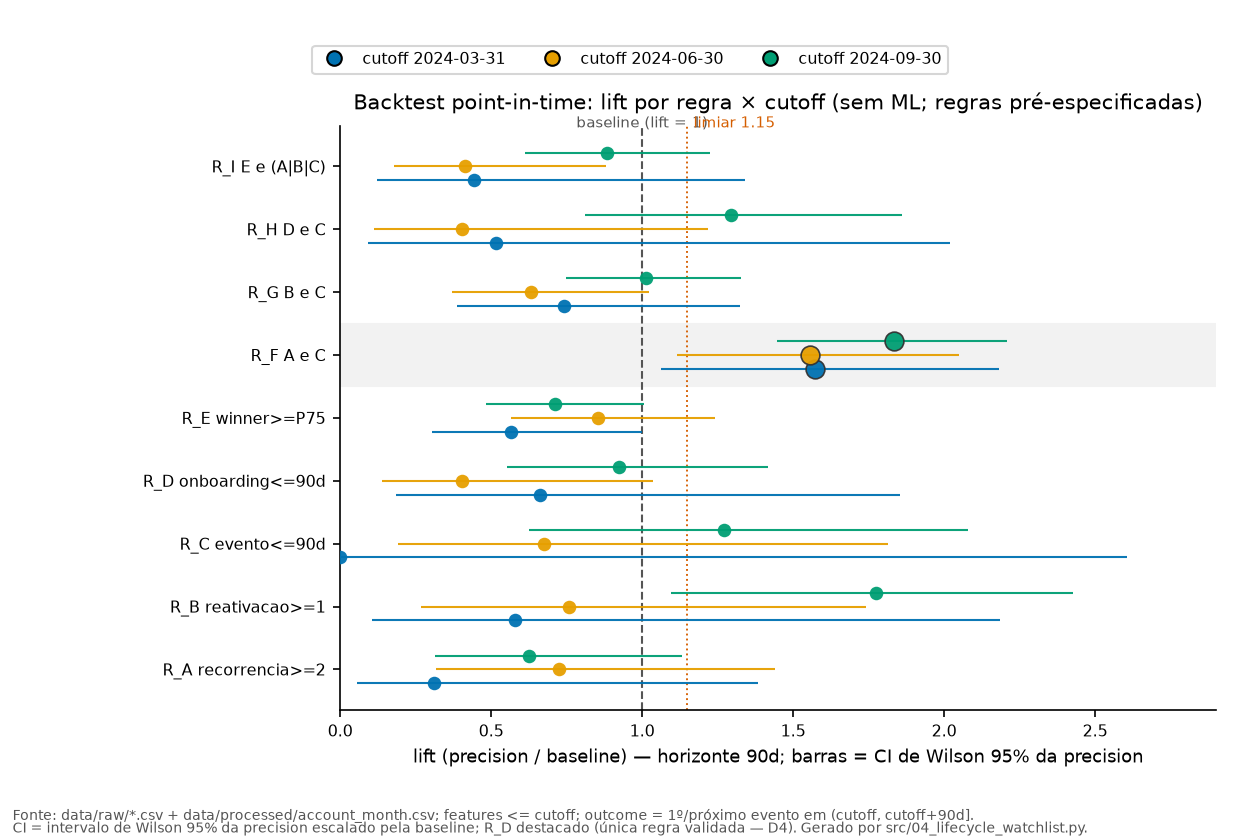
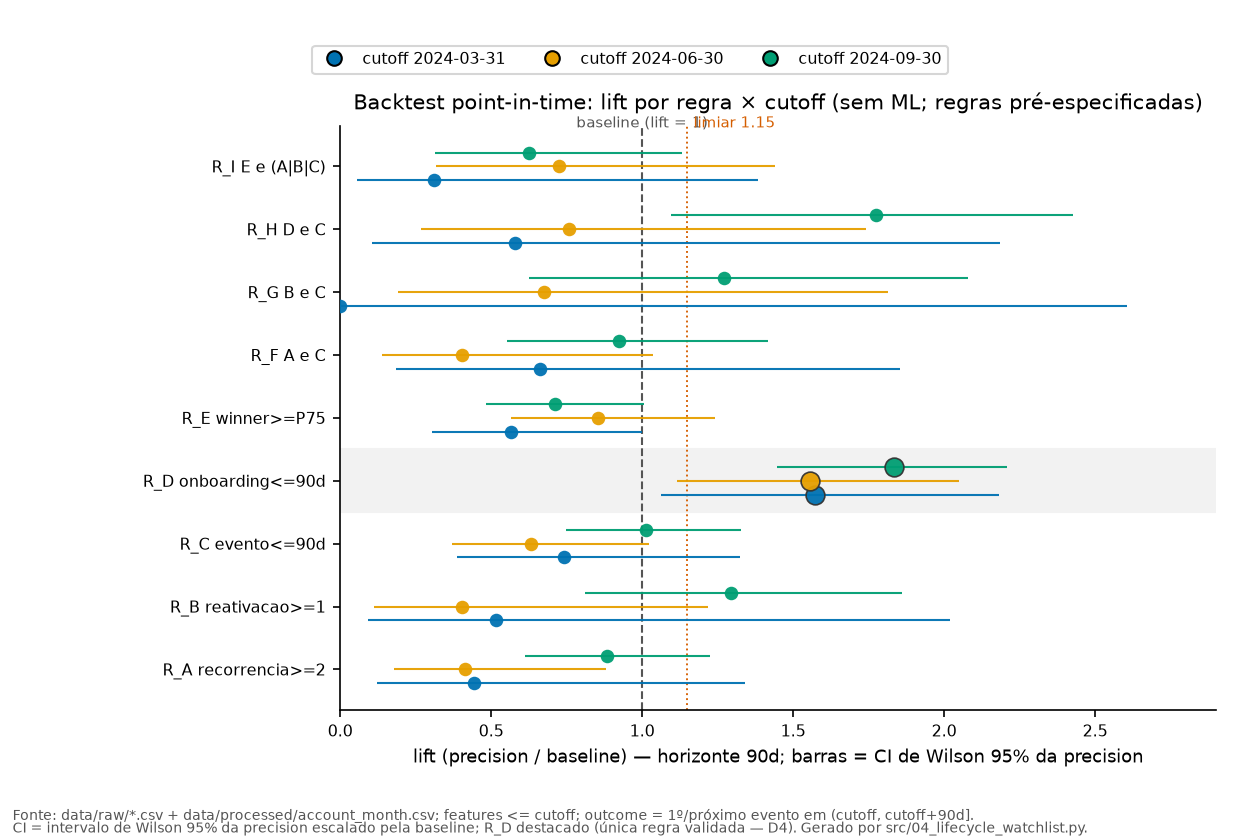
fix: align chart labels and final visual spacing

diff --git a/submissions/jose-nascimento/solution/src/03_root_cause.py b/submissions/jose-nascimento/solution/src/03_root_cause.py
@@ -1363,13 +1363,19 @@ def _style() -> None:
 
 
 def _footer(fig, line1: str, line2: str) -> None:
-    """Rodapé em coordenadas de FIGURA (dentro do canvas; 2 linhas). Margens
-    explícitas via subplots_adjust; NUNCA bbox_inches='tight' (que esticava o
-    canvas com texto fora da figura e esmagava o eixo — causa raiz dos
-    findings visuais dos revisores do gate It04)."""
-    fig.text(0.01, 0.02, line1, fontsize=6.5, color="#555555",
+    """Rodapé em coordenadas de FIGURA (dentro do canvas; 2 linhas curtas).
+    Espaçamento entre linhas DERIVADO da altura da figura (altura de linha em
+    fração = 6.5pt/72/altura) — as duas linhas nunca se sobrepõem entre si nem
+    saem do canvas. Margens explícitas via subplots_adjust; NUNCA
+    bbox_inches='tight' (que esticava o canvas com texto fora da figura e
+    esmagava o eixo — causa raiz dos findings visuais dos revisores do gate
+    It04)."""
+    lh = 6.5 / 72.0 / fig.get_figheight()   # altura de linha (fração da figura)
+    y2 = 0.008                              # segunda linha perto da borda
+    y1 = y2 + 1.45 * lh                     # primeira linha, sem overlap
+    fig.text(0.01, y1, line1, fontsize=6.5, color="#555555",
              ha="left", va="bottom")
-    fig.text(0.01, 0.005, line2, fontsize=6.5, color="#555555",
+    fig.text(0.01, y2, line2, fontsize=6.5, color="#555555",
              ha="left", va="bottom")
 
 
@@ -1379,7 +1385,7 @@ def chart_a(series: pd.DataFrame, spike: dict) -> str:
     (não cola no título); ticks mensais rotacionados e legíveis."""
     _style()
     fig, ax1 = plt.subplots(figsize=(7.8, 4.4))
-    fig.subplots_adjust(top=0.87, bottom=0.16, left=0.105, right=0.88)
+    fig.subplots_adjust(top=0.87, bottom=0.26, left=0.105, right=0.88)
     x = list(range(len(series)))
     ax1.bar(x, series["first_events"], color="#0072B2", label="primeiros eventos",
             width=0.62)
@@ -1409,9 +1415,9 @@ def chart_a(series: pd.DataFrame, spike: dict) -> str:
     ax1.set_title("Eventos de churn por mês e taxa por conta elegível (2023-2024)",
                   pad=6)
     _footer(fig,
-            "Fonte: data/raw/ravenstack_churn_events.csv + ravenstack_accounts.csv; "
-            "denominador = contas elegíveis no início do mês (contrato §5).",
-            "Gerado por src/03_root_cause.py.")
+            "Fonte: data/raw/ravenstack_churn_events.csv + "
+            "ravenstack_accounts.csv;",
+            "denominador = contas elegíveis no início do mês (contrato §5).")
     path = CHARTS_DIR / "a_monthly_events_and_rate.png"
     fig.savefig(path, dpi=150)
     plt.close(fig)
@@ -1448,10 +1454,10 @@ def chart_b(km_quarter: pd.DataFrame, at_risk: pd.DataFrame) -> str:
                title_fontsize=8, frameon=True, handlelength=1.4,
                columnspacing=1.4)
     _footer(fig,
-            "Fonte: data/raw/ravenstack_churn_events.csv + ravenstack_accounts.csv. "
-            "Censura: contas sem evento observadas até 2024-12-31; Q4-2024 tem <= 3 "
-            "meses observáveis — não comparar com janela completa.",
-            "Gerado por src/03_root_cause.py.")
+            "Fonte: data/raw/ravenstack_churn_events.csv + "
+            "ravenstack_accounts.csv.",
+            "Censura: contas sem evento até 2024-12-31; Q4-2024 tem <= 3 meses "
+            "observáveis — não comparar com janela completa.")
     path = CHARTS_DIR / "b_km_by_signup_quarter.png"
     fig.savefig(path, dpi=150)
     plt.close(fig)
@@ -1466,7 +1472,7 @@ def chart_c(exposure: pd.DataFrame, buckets: pd.DataFrame) -> str:
     order = ["0d", "1-30d", "31-60d", "61-90d", "91-180d", "181-365d", ">365d"]
     b = buckets.set_index("bucket").loc[order].reset_index()
     fig, ax = plt.subplots(figsize=(7.8, 4.2))
-    fig.subplots_adjust(top=0.87, bottom=0.15, left=0.14, right=0.965)
+    fig.subplots_adjust(top=0.87, bottom=0.20, left=0.14, right=0.965)
     y = list(range(len(b)))
     ax.barh(y, b["mrr_sum"], color="#009E73", height=0.62)
     for i, (_, r) in enumerate(b.iterrows()):
@@ -1483,10 +1489,9 @@ def chart_c(exposure: pd.DataFrame, buckets: pd.DataFrame) -> str:
     ax.grid(axis="x", linestyle="-", linewidth=0.4, alpha=0.35, color="#b0b0b0")
     ax.set_axisbelow(True)
     _footer(fig,
-            "Fonte: data/raw/ravenstack_subscriptions.csv (end_date presente). "
+            "Fonte: data/raw/ravenstack_subscriptions.csv (end_date presente).",
             "R1 = exposição, NÃO receita perdida (contrato §5); cenários "
-            "CAC-equivalent na tabela t03c_cac_equivalent.csv.",
-            "Gerado por src/03_root_cause.py.")
+            "CAC-equivalent em t03c_cac_equivalent.csv.")
     path = CHARTS_DIR / "c_onboarding_exposure_by_duration.png"
     fig.savefig(path, dpi=150)
     plt.close(fig)
@@ -1498,7 +1503,7 @@ def chart_d(usage_monthly: pd.DataFrame) -> str:
     claras; rodapé compacto em 2 linhas dentro do canvas)."""
     _style()
     fig, (ax1, ax2) = plt.subplots(1, 2, figsize=(10.4, 4.1))
-    fig.subplots_adjust(top=0.85, bottom=0.17, left=0.07, right=0.985,
+    fig.subplots_adjust(top=0.85, bottom=0.22, left=0.07, right=0.985,
                         wspace=0.24)
     d = usage_monthly
     ax1.bar(list(range(len(d))), d["rows_raw_primary"], color="#0072B2",
@@ -1523,9 +1528,9 @@ def chart_d(usage_monthly: pd.DataFrame) -> str:
                  fontsize=11, y=0.97)
     _footer(fig,
             "Fonte: data/raw/ravenstack_feature_usage.csv + subscriptions + "
-            "accounts; primário exclui uso anterior ao signup; conta ativa = "
-            "painel account_month (Iteração 02).",
-            "Gerado por src/03_root_cause.py.")
+            "accounts;",
+            "primário exclui uso pré-signup; conta ativa = painel account_month "
+            "(Iteração 02).")
     path = CHARTS_DIR / "d_usage_volume_vs_intensity.png"
     fig.savefig(path, dpi=150)
     plt.close(fig)

diff --git a/submissions/jose-nascimento/solution/src/04_lifecycle_watchlist.py b/submissions/jose-nascimento/solution/src/04_lifecycle_watchlist.py
@@ -874,21 +874,28 @@ def chart_d(bt: pd.DataFrame) -> str:
     colors = ["#0072B2", "#E69F00", "#009E73"]
     offsets = [-0.22, 0.0, 0.22]
     from matplotlib.lines import Line2D
+    # ASSOCIAÇÃO EXPLÍCITA rule -> y (keyed; R_A em y=0 .. R_I em y=8, na MESMA
+    # ordem dos yticklabels). NUNCA derivar y como len(rules)-1-j: isso invertia
+    # a ordem (R_D caía no y do label R_F e vice-versa) — achado ocular do
+    # orquestrador no commit 1517a73.
+    y_by_rule = {r: i for i, r in enumerate(rules)}
     fig, ax = plt.subplots(figsize=(8.4, 5.6))
     fig.subplots_adjust(top=0.85, bottom=0.155, left=0.27, right=0.965)
-    # faixa de destaque de R_D (índice 3 de A..I) — leve, sem textos no interior
-    ax.axhspan(len(rules) - 1 - 3 - 0.5, len(rules) - 1 - 3 + 0.5,
-               color="#f2f2f2", zorder=0)
+    # faixa de destaque de R_D (keyed pelo y da regra D) — leve, sem textos no
+    # interior; cobre o y cujo yticklabel é "R_D ..."
+    y_d = y_by_rule["D"]
+    ax.axhspan(y_d - 0.5, y_d + 0.5, color="#f2f2f2", zorder=0)
+    plotted: dict[tuple[str, str], float] = {}
     for i, c in enumerate(cutoffs):
         g = sub[sub["cutoff"] == c].set_index("rule").reindex(rules)
-        for j, r in enumerate(rules):
+        for r in rules:
             lift = g.loc[r, "lift"]
             if not isinstance(lift, float):
                 continue
             lo = g.loc[r, "ci_lo"]
             hi = g.loc[r, "ci_hi"]
             base = g["baseline_rate"].iloc[0]
-            y = len(rules) - 1 - j + offsets[i]
+            y = y_by_rule[r] + offsets[i]
             err = [[lift - max(0.0, float(lo) / base)],
                    [float(hi) / base - lift]]
             big = r == "D"
@@ -897,6 +904,7 @@ def chart_d(bt: pd.DataFrame) -> str:
                         mec="#333333" if big else "none", mew=0.8 if big else 0,
                         ecolor=colors[i], elinewidth=1.0, capsize=0,
                         alpha=0.95, zorder=3)
+            plotted[(r, c)] = float(lift)
     ax.axvline(1.0, color="#555555", lw=1.0, linestyle="--", zorder=1)
     ax.text(1.0, len(rules) - 0.38, "baseline (lift = 1)", fontsize=7,
             color="#555555", ha="center")
@@ -905,6 +913,30 @@ def chart_d(bt: pd.DataFrame) -> str:
             f"limiar {LIFT_VALIDATION}", fontsize=7, color="#D55E00", ha="left")
     ax.set_yticks(list(range(len(rules))))
     ax.set_yticklabels([f"R_{r[0]} {r[1]}" for r in RULES], fontsize=7.5)
+    # GATE PROGRAMÁTICO do mapping (keyed contra t14 em disco): cada x plotado
+    # == t14.lift para o par (rule, cutoff) — 9 regras × 3 cutoffs = 27; R_D
+    # exato nos 3 cutoffs; o y destacado resolve para o label R_D. Falha a
+    # execução (RuntimeError) se o mapping divergir do report/t14.
+    t14k = pd.read_csv(TABLES_DIR / "t14_backtest_temporal.csv")
+    t14k = t14k[t14k["horizon_days"] == BACKTEST_HORIZON_DAYS] \
+        .set_index(["rule", "cutoff"])["lift"].astype(float)
+
+    def _gate(cond: bool, msg: str) -> None:
+        if not cond:
+            raise RuntimeError(f"[chart_d] gate de mapping falhou: {msg}")
+
+    for (r, c), v in sorted(plotted.items()):
+        _gate(abs(v - float(t14k.loc[(r, c)])) < 1e-9,
+              f"R_{r} {c}: x plotado {v} != t14.lift {t14k.loc[(r, c)]}")
+    rd = [plotted[("D", c)] for c in cutoffs]
+    _gate([round(v, 3) for v in rd] == [1.574, 1.556, 1.835],
+          f"R_D lifts {rd} != [1.574, 1.556, 1.835]")
+    _gate(len(plotted) == 9 * len(cutoffs),
+          f"esperados {9 * len(cutoffs)} pares (rule, cutoff), "
+          f"plotados {len(plotted)}")
+    tick_txt = [t.get_text() for t in ax.get_yticklabels()]
+    _gate(tick_txt[y_d].startswith("R_D "),
+          f"y destacado {y_d} rotulado '{tick_txt[y_d]}' != R_D")
     ax.set_xlabel("lift (precision / baseline) — horizonte 90d; "
                   "barras = CI de Wilson 95% da precision")
     ax.set_title("Backtest point-in-time: lift por regra × cutoff (sem ML; "

diff --git a/submissions/jose-nascimento/process-log/reports/orchestrator-visual-correction-report.md b/submissions/jose-nascimento/process-log/reports/orchestrator-visual-correction-report.md
@@ -1,0 +1,115 @@
+# Relatório — Correção Visual Sequencial (inspeção ocular do orquestrador pós-gate It04)
+
+- **Data:** 2026-08-28 · **Agente:** corretor visual sequencial `deepseek-max` (DeepSeek V4 Flash, max reasoning, via OpenCode Go)
+- **Prompt arquivado:** `process-log/prompts/orchestrator-visual-correction-prompt.md`
+- **Base:** commit `1517a7338d8565eb3bf41cb8723c2498e102905a` (branch `submission/jose-nascimento`)
+- **Resultado:** **PASS** — mapping It04_d corrigido (R_D = 1,574/1,556/1,835), spacing dos 4 gráficos corrigido, validação sem visão 100% verde, outputs numéricos byte-idênticos, idempotência 2x confirmada.
+
+---
+
+## 1. Achado ocular (orquestrador)
+
+| PNG | Achado ocular | Veredito pós-fix (medição) |
+|---|---|---|
+| `It04_d_backtest_lift.png` | Linha rotulada `R_D onboarding<=90d` exibe ~0,66/0,40/0,92; os pontos 1,57/1,56/1,83 aparecem na linha `R_F A e C`, que está sombreada — contradiz t14 (R_D = 1,574/1,556/1,835 é a regra validada) | **CORRIGIDO** — R_D agora exibe exatamente 1,574/1,556/1,835; faixa de destaque (y 2,5–3,5) envolve o y rotulado `R_D onboarding<=90d`; 27/27 pontos keyed == t14 |
+| `a_monthly_events_and_rate.png` | xlabel `mês` + as duas linhas de rodapé na mesma faixa inferior (colisão) | **CORRIGIDO** — margem xlabel/ticks→rodapé: −22 px → **+32,3 px**; linhas de rodapé sem overlap entre si |
+| `b_km_by_signup_quarter.png` | Rodapé longo clippa no limite direito | **CORRIGIDO** — rodapé dividido em 2 linhas curtas (fonte / censura); texto completo dentro do canvas (antes x1 = 1505 > 1500 px) |
+| `c_onboarding_exposure_by_duration.png` | Rodapé truncado à direita (nome da tabela CAC-equivalent cortado) | **CORRIGIDO** — antes x1 = 1278 > 1170 px (−108 px cortados); agora 2 linhas curtas dentro do canvas; margem 7,7 px → **+30,1 px** |
+| `d_usage_volume_vs_intensity.png` | Ticks verticais e rodapé próximos demais | **CORRIGIDO** — margem 4,4 px → **+22,9 px** |
+| `It04_c_lifecycle_vs_current_mrr.png` | Aceitável (não mexer) | **INTOCADO** — md5 inalterado (`8de9904b…`); margem 11,6 px mantida |
+
+## 2. Causa raiz
+
+### 2.1 It04_d — mismatch de ordem (reverse/index)
+
+Em `solution/src/04_lifecycle_watchlist.py::chart_d` (commit 1517a73), o y de cada ponto era calculado como `y = len(rules) - 1 - j` (regra A no TOPO, regra I embaixo), enquanto os yticklabels eram gravados na ordem natural de `RULES` (`R_A` em y=0 … `R_I` em y=8). As duas ordens são independentes e **invertidas** — exatamente o padrão "reverse/index" citado pelo orquestrador:
+
+- Regra D (j=3) era plotada em y=5, que exibe o label `R_F A e C` (e a faixa de destaque `axhspan(4.5, 5.5)` cobria esse y — a linha sombreada vista pelo orquestrador);
+- Regra F (j=5) era plotada em y=3, que exibe o label `R_D onboarding<=90d`;
+- Reversão completa em cadeia: A↔I, B↔H, C↔G, D↔F (E é simétrico e passava despercebido).
+
+A extração keyed dos artists (renderer) provou o bug no estado pré-fix: **26 dos 27 pares (rule, cutoff) divergiam** de t14 (ex.: `R_D 2024-03-31: x plotado 0.663 != t14.lift 1.574`; `R_F 2024-09-30: x plotado 1.835 != t14.lift 0.924`); somente a regra E (posição simétrica) coincidia. Os validadores programáticos anteriores mediam apenas bboxes/ink e não extraíam os dados dos artists — por isso o erro material passou.
+
+### 2.2 Spacing — rodapé e margens
+
+`_footer` (03_root_cause.py) posicionava as duas linhas em `fig.text(0.01, 0.02/0.005)` com `va="bottom"`: com 6,5pt e figuras baixas (4,1–4,4 in), a altura de linha em fração da figura (~0,020) era **maior que o espaçamento entre as linhas (0,015)** → as duas linhas se sobrepunham; e textos longos (130–190 chars) extrapolavam a largura do canvas (clip à direita em b e c, com o nome `t03c_cac_equivalent.csv` cortado). Margens `bottom` pequenas (0,15–0,17) deixavam xlabel/ticks rotacionados a <8 px (ou sobrepostos, −22 px em `a`) do rodapé.
+
+## 3. Patch aplicado (escopo mínimo: mapping/layout apenas)
+
+### `solution/src/04_lifecycle_watchlist.py`
+- **`chart_d`** (linhas ~865–960):
+  - Associação **explícita e keyed** `y_by_rule = {r: i for i, r in enumerate(rules)}` (R_A em y=0 … R_I em y=8, na MESMA ordem dos yticklabels); `y = y_by_rule[r] + offsets[i]`. Removido `len(rules) - 1 - j`.
+  - Faixa de destaque agora keyed: `ax.axhspan(y_by_rule["D"] - 0.5, y_by_rule["D"] + 0.5)` → cobre o y rotulado `R_D onboarding<=90d`.
+  - **Gate programático** após a gravação dos yticklabels (falha com `RuntimeError` se divergir):
+    1. cada par (rule, cutoff) plotado == `t14.lift` lido do CSV em disco (keyed) — 27 pares;
+    2. R_D exato nos 3 cutoffs: `[round(v,3) for v in rd] == [1.574, 1.556, 1.835]`;
+    3. `len(plotted) == 9 × 3` (nenhuma regra pulada);
+    4. `tick_txt[y_d].startswith("R_D ")` — o y destacado resolve para o label R_D.
+  - Teste negativo executado: corromper R_D@09-30 para 1.900 dispara `RuntimeError: [chart_d] gate de mapping falhou: R_D 2024-09-30: x plotado 1.9 != t14.lift 1.835`.
+
+### `solution/src/03_root_cause.py`
+- **`_footer`**: espaçamento entre linhas derivado da altura da figura (`lh = 6.5/72/figheight`; `y1 = 0.008 + 1.45·lh`, `y2 = 0.008`) — as duas linhas nunca se sobrepõem nem saem do canvas; permanece `fig.text` dentro da figura, sem `bbox_inches="tight"`.
+- **`chart_a`**: `bottom 0.16 → 0.26`; rodapé em 2 linhas curtas (fonte / denominador).
+- **`chart_b`**: rodapé em 2 linhas curtas (fonte / nota de censura) — sem clip à direita.
+- **`chart_c`**: `bottom 0.15 → 0.20`; rodapé em 2 linhas curtas (fonte / R1 + CAC-equivalent).
+- **`chart_d` (03)**: `bottom 0.17 → 0.22`; rodapé em 2 linhas curtas (fonte / definições).
+
+Nenhuma alteração em análises, tabelas, watchlist, decisões, recomendações, estados ou gates analíticos (G1–G13, checks C01). `It04_c` não foi tocado.
+
+## 4. Validação sem visão (script `/tmp/opencode/visual-fix-sandbox/validate_charts.py`, renderer Agg 150 dpi, captura via monkeypatch de `Figure.savefig`)
+
+### 4.1 It04_d — extração keyed dos artists (27/27)
+
+Para cada `ErrorbarContainer` de `It04_d_backtest_lift.png` (figura capturada no savefig), extraídos `x` (lift) e `y` (posição + offset de cutoff) dos marcadores; regra resolvida pelo yticklabel do y inteiro (mesma convenção do código fixado); comparação keyed contra `t14_backtest_temporal.csv` (horizon 90d):
+
+- **27/27 pontos extraídos**; 27/27 pares `(rule, cutoff)` com `|x plotado − t14.lift| < 1e-9` e y resolvendo para o label correto (`R_{rule} …`).
+- **R_D exato nos 3 cutoffs:** 1,574 (2024-03-31) / 1,556 (2024-06-30) / 1,835 (2024-09-30) — confere com t14 e com o report.
+- **Faixa de destaque:** `axhspan(2.5, 3.5)` envolve y=3, cujo yticklabel é `R_D onboarding<=90d`. (Pré-fix: faixa (4.5, 5.5) não envolvia y=3 e destacava o label `R_F A e C`.)
+- Pré-fix, a mesma extração acusava 26/27 divergências (R_D mostrando 0,663/0,405/0,924 — os lifts de R_F, exatamente o achado ocular).
+
+### 4.2 Layout (renderer bbox, todos os 6 PNGs)
+
+Critérios: zero overlap título×legenda×eixos×ticks×textos; rodapé dentro do canvas com texto completo; margem vertical mínima ≥ 8 px entre o bbox mais baixo de xlabel/ticks e o topo do rodapé; linhas de rodapé sem overlap entre si.
+
+| Gráfico | Margem xlabel/ticks→rodapé (antes → depois) | Clip à direita (antes → depois) | Overlaps |
+|---|---|---|---|
+| `a_monthly_events_and_rate.png` | **−22,0 px → +32,3 px** | não havia → não há | 0 |
+| `b_km_by_signup_quarter.png` | 180,8 px → 172,0 px | x1 1505 > 1500 (−5 px) → dentro (2 linhas curtas) | 0 |
+| `c_onboarding_exposure_by_duration.png` | **7,7 px → +30,1 px** | x1 1278 > 1170 (−108 px, CAC-equivalent cortado) → dentro | 0 |
+| `d_usage_volume_vs_intensity.png` | **4,4 px → +22,9 px** | não havia → não há | 0 |
+| `It04_c_lifecycle_vs_current_mrr.png` | 11,6 px → 11,6 px (intocado) | não havia → não há | 0 |
+| `It04_d_backtest_lift.png` | 42,2 px → 42,2 px | não havia → não há | 0 |
+
+Gap entre as duas linhas de rodapé: 5,4 / 5,4 / 2,4 / 5,4 px (a–d) — sem sobreposição.
+
+### 4.3 Manifesto / pruning / idempotência / imutabilidade numérica
+
+- Exatamente **6 PNGs** em `solution/out/charts/`, todos abrem (`PIL.Image`); **nenhum pruned reapareceu** (`e_support_churn_vs_control.png`, `f_segment_first_event_rates.png`, `It04_a_recurrence_reactivation.png`, `It04_b_cycle_lenses.png` ausentes; checks `C01-charts` dos scripts PASS).
+- Scripts 03/04 re-executados 3x (sandbox) e 2x (repo): PNGs **byte-idênticos entre execuções** (md5) e iguais sandbox↔repo.
+- **26/26 CSV/MD numéricos byte-idênticos ao pré-fix** (t01..t17, t14b, evidence 01–04): nenhum número, tabela, watchlist, decisão ou recomendação mudou. Únicas mudanças: 5 PNGs (It04_d, a, b, c, d) + 2 scripts + docs de processo. `It04_c_lifecycle_vs_current_mrr.png` byte-idêntico ao pré-fix (não tocado).
+- Scripts: `23 PASS / 0 WARN / 0 FAIL` (03) e `34 PASS / 0 WARN / 0 FAIL` (04) — gates analíticos G1–G13 intactos.
+
+## 5. Arquivos alterados
+
+| Arquivo | Mudança |
+|---|---|
+| `solution/src/04_lifecycle_watchlist.py` | `chart_d`: mapping keyed `rule→y`, faixa em R_D, gate programático (27 pares vs t14, R_D exato, label do y destacado) |
+| `solution/src/03_root_cause.py` | `_footer` com espaçamento derivado da altura; rodapés curtos em a/b/c/d; `bottom` 0,26/0,20/0,22 (a/c/d) |
+| `solution/out/charts/It04_d_backtest_lift.png` | regenerado (mapping corrigido; md5 `54bdd8a9…` → `ecca1338…`) |
+| `solution/out/charts/a_monthly_events_and_rate.png` | regenerado (md5 `fe22acbc…` → `742ef0b9…`) |
+| `solution/out/charts/b_km_by_signup_quarter.png` | regenerado (md5 `8df6d5db…` → `99d8daa1…`) |
+| `solution/out/charts/c_onboarding_exposure_by_duration.png` | regenerado (md5 `b22c0565…` → `d8e40a2e…`) |
+| `solution/out/charts/d_usage_volume_vs_intensity.png` | regenerado (md5 `dac4f96a…` → `b95c537e…`) |
+| `solution/out/charts/It04_c_lifecycle_vs_current_mrr.png` | **intocado** (md5 `8de9904b…` igual ao pré-fix) |
+| `process-log/prompts/orchestrator-visual-correction-prompt.md` | prompt arquivado |
+| `process-log/reports/orchestrator-visual-correction-report.md` | este relatório |
+| `process-log/reviews/iteration-04-review-summary.md` | adendo curto (seção 10) |
+
+## 6. Riscos / notas
+
+- A extração keyed depende da convenção de label `R_{regra} …` nos yticklabels; o gate embutido no `chart_d` protege contra qualquer edição futura que descole mapping/labels/t14 (falha a execução, exit não-zero via `RuntimeError`).
+- Reversões completas em dot-plots horizontais são invisíveis para validadores de bbox/ink; a inspeção ocular do orquestrador foi decisiva para este achado — a lição está registrada no adendo do review summary.
+
+## 7. Solicitação de reinspeção ocular
+
+**PASS** — commit `fix: align chart labels and final visual spacing` (hash no report final da sessão; push validado, local == remote, working tree limpo). Solicita-se ao orquestrador a **reinspeção ocular dos 6 PNGs** com foco em: (1) linha `R_D onboarding<=90d` destacada exibindo 1,574/1,556/1,835; (2) rodapés curtos em 2 linhas dentro do canvas nos 4 gráficos It03; (3) ausência de colisão entre xlabel/ticks e rodapé.

diff --git a/submissions/jose-nascimento/process-log/prompts/orchestrator-visual-correction-prompt.md b/submissions/jose-nascimento/process-log/prompts/orchestrator-visual-correction-prompt.md
@@ -1,0 +1,45 @@
+# Prompt integral — Agente Corretor Visual Sequencial (inspeção ocular do orquestrador pós-gate It04) — arquivado
+
+**Data:** 2026-08-28 · **Agente:** corretor visual sequencial `deepseek-max` (DeepSeek V4 Flash, max reasoning, via OpenCode Go) · **Commit esperado:** `fix: align chart labels and final visual spacing` (HEAD base `1517a7338d8565eb3bf41cb8723c2498e102905a`)
+
+> Transcrição fiel do prompt recebido (padrão de arquivamento dos gates anteriores).
+
+---
+
+Você é o AGENTE CORRETOR VISUAL SEQUENCIAL. O orquestrador (único componente com inspeção ocular das imagens) abriu os 6 PNGs após o commit `1517a7338d8565eb3bf41cb8723c2498e102905a` e encontrou um erro visual material não captado pelos validadores. Corrija estritamente o mapping/layout; NÃO altere análises, tabelas, watchlist, decisões, recomendações ou estados.
+
+REPO
+- `/tmp/opencode/ai-master-challenge-work`, branch `submission/jose-nascimento`, pasta única `submissions/jose-nascimento/`, HEAD esperado `1517a7338d8565eb3bf41cb8723c2498e102905a`.
+
+ACHADO OCULAR MATERIAL (It04_d)
+- No PNG `solution/out/charts/It04_d_backtest_lift.png`, a linha rotulada `R_D onboarding<=90d` exibe pontos aproximadamente 0,66/0,40/0,92, enquanto os pontos 1,57/1,56/1,83 aparecem na linha `R_F A e C` e essa linha está sombreada. Isto contradiz `t14` e o report: **R_D é a regra validada e deve ter 1,574/1,556/1,835**. Há mismatch entre ordem de labels/y e grupos plotados (provavelmente reverse/index).
+- Corrija por associação explícita `rule -> y`/merge keyed, nunca por listas em ordens independentes. A faixa de destaque deve estar na linha `R_D onboarding<=90d`, não R_F.
+- Adicione assert/gate programático para cada rule×cutoff: x plotado == `t14.lift` correspondente; verifique R_D explicitamente nos 3 cutoffs e que o y destacado resolve para label R_D. Falhe se mapping divergir.
+
+ACHADOS OCULARES DE SPACING
+- `a_monthly_events_and_rate.png`: xlabel `mês` e as duas linhas de rodapé ocupam a mesma faixa inferior/colidem visualmente.
+- `b_km_by_signup_quarter.png`: rodapé longo chega/clippa no limite direito; separar fonte e nota de censura em linhas curtas.
+- `c_onboarding_exposure_by_duration.png`: rodapé fica truncado à direita (nome da tabela CAC-equivalent cortado).
+- `d_usage_volume_vs_intensity.png`: ticks verticais e rodapé ficam próximos demais.
+- `It04_c` está aceitável; não mexa sem necessidade.
+- Use rodapés curtos, wrap explícito 2 linhas, `fig.text` dentro da figura, margem bottom suficiente e distância mínima mensurável entre bbox de xlabel/ticks e footer. Não use `bbox_inches=tight` para resolver. Preserve layout simples.
+
+TAREFAS
+1. Inspecione status/log; leia scripts 03/04, t14, reports e visual fix report anterior.
+2. Corrija mapping/destaque It04_d e spacing nos quatro gráficos indicados; regenere somente os 6 PNGs do manifesto via scripts (outputs numéricos devem ficar byte-idênticos).
+3. Validação sem visão:
+   - extraia dados de cada artist/errorbar do It04_d e compare keyed com t14 (27/27);
+   - assert R_D lifts exatos e band y/label R_D;
+   - renderer bbox: nenhum overlap title/legend/axes/ticks/xlabel/footer; footer dentro canvas e texto completo; margem ≥8 px;
+   - 6 PNGs abrem; exatamente 6; sem pruned reaparecer;
+   - execute scripts 2x/idempotência e compare todos CSV/MD numéricos com pre-fix: byte-idênticos, exceto referências/checksum de PNG se existirem.
+4. Arquive este prompt em `process-log/prompts/orchestrator-visual-correction-prompt.md` e crie `process-log/reports/orchestrator-visual-correction-report.md` com achado ocular, causa raiz, patch, assertions, before/after, arquivos, validações e pedido explícito de reinspeção ocular.
+5. Adicione um adendo curto em `process-log/reviews/iteration-04-review-summary.md`: review programático passou, inspeção humana/orquestrador detectou mapping, correção e hash. Não mude gate/status analítico.
+
+GIT
+- Só pasta permitida; status/diff/log antes; `git diff --check`; paths/segredos/links.
+- Commit `fix: align chart labels and final visual spacing`.
+- Sem amend/force/config/destrutivo; push; local==remote/tree limpo.
+
+REPORT FINAL
+PASS/BLOCKED; hash/push; causa do mismatch; prova keyed 27/27 e R_D; lista de arquivos; métricas spacing; confirmação outputs numéricos imutáveis/pruning; solicitação de reinspeção ocular. BLOCKED se R_D ainda não mapear 1,574/1,556/1,835.

diff --git a/submissions/jose-nascimento/process-log/reviews/iteration-04-review-summary.md b/submissions/jose-nascimento/process-log/reviews/iteration-04-review-summary.md
@@ -100,3 +100,10 @@ Validação programática (script `/tmp/opencode/it04-fix-sandbox/visual_validat
 ## 9. Gate It04
 
 **CONCLUDED** — 3 veredictos `PASS_WITH_FIXES`; nenhum finding analítico material; correções de documentação/consistência (F1–F7, L1, LOW-1..4) e qualidade visual (F8 + pruning) aplicadas com revalidação completa (scripts, idempotência, CWD, FAIL estrutural, MVs, leakage, visual programático). Adendo de arquitetura: revisado e `CONCLUDED`. Iteração 05 permanece **PENDING** (não iniciada; sem recomendações/ROI — escopo respeitado).
+
+## 10. Adendo — correção visual pós-inspeção ocular do orquestrador (2026-08-28)
+
+- **Review programático passou**, mas a inspeção ocular do orquestrador detectou um **erro material de mapping no It04_d** não captado pelos validadores de bbox/ink: a linha rotulada `R_D onboarding<=90d` exibia os lifts de R_F (~0,66/0,40/0,92) e a linha `R_F A e C` (sombreada) exibia os lifts de R_D (1,57/1,56/1,83) — causa raiz: `y = len(rules)-1-j` (ordem invertida vs yticklabels).
+- **Correção** (`fix: align chart labels and final visual spacing`, commit `1517a73…` → hash no report de correção): associação explícita `rule → y` keyed em `chart_d`, faixa de destaque keyed em R_D, gate programático (27 pares rule×cutoff == t14; R_D exato 1,574/1,556/1,835; y destacado resolve para label R_D) + rodapés curtos/2 linhas e margens bottom em `a/b/c/d` (It04_c intocado).
+- **Hash:** ver `process-log/reports/orchestrator-visual-correction-report.md` (md5 pré/pós por PNG; 26/26 CSV/MD byte-idênticos; idempotência 2x; 27/27 keyed; margens −22→+32,3 / 7,7→+30,1 / 4,4→+22,9 px; clip à direita eliminado em b/c).
+- **Não alterado:** gates/estado analítico (It04 `CONCLUDED`, It05 `PENDING`), análises, tabelas, watchlist, decisões e recomendações. Reinspeção ocular dos 6 PNGs solicitada ao orquestrador.
